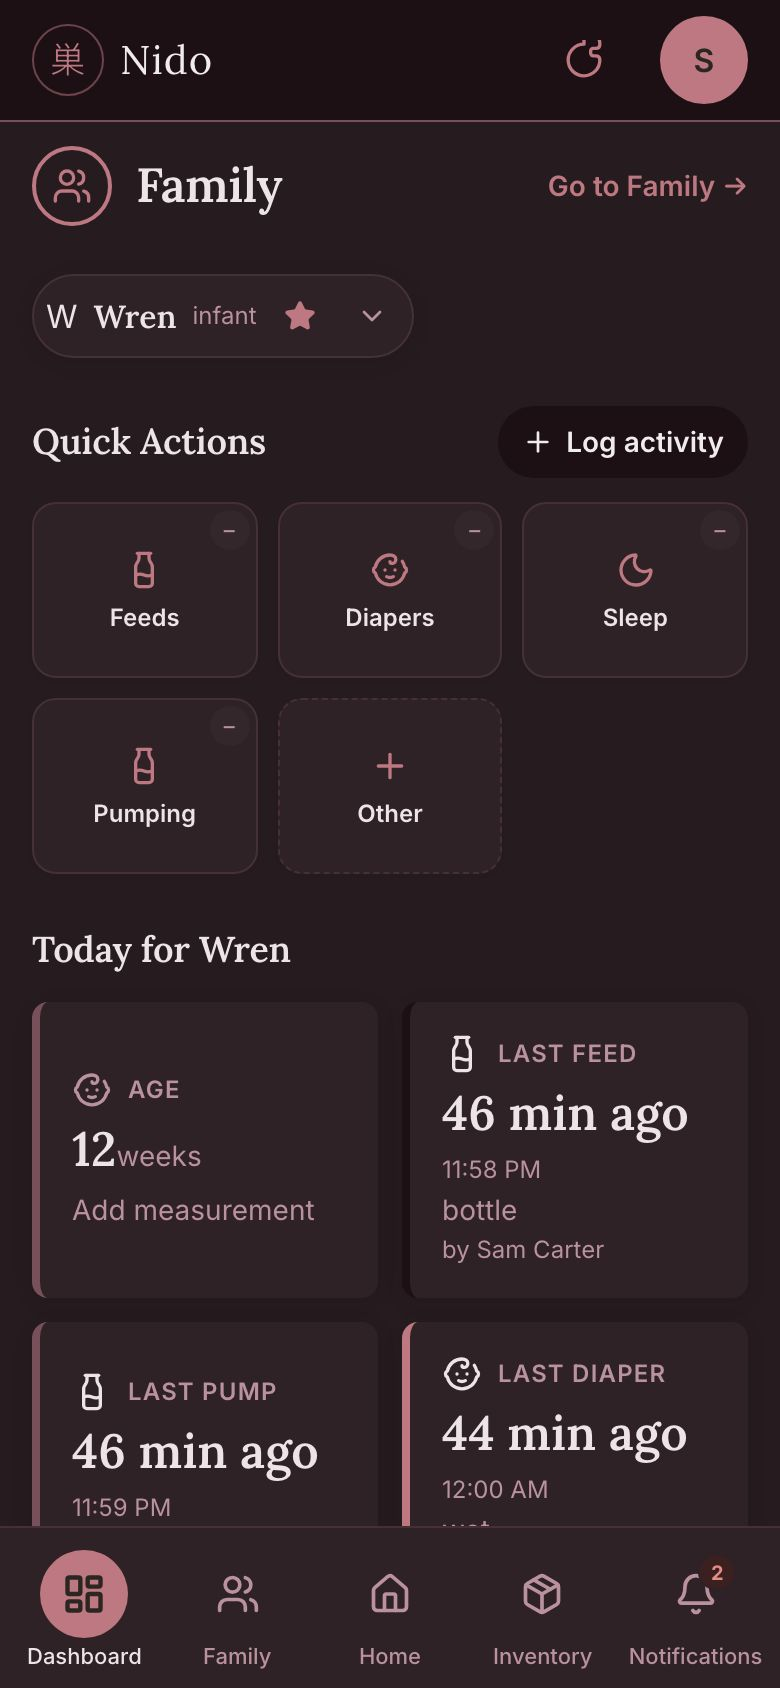
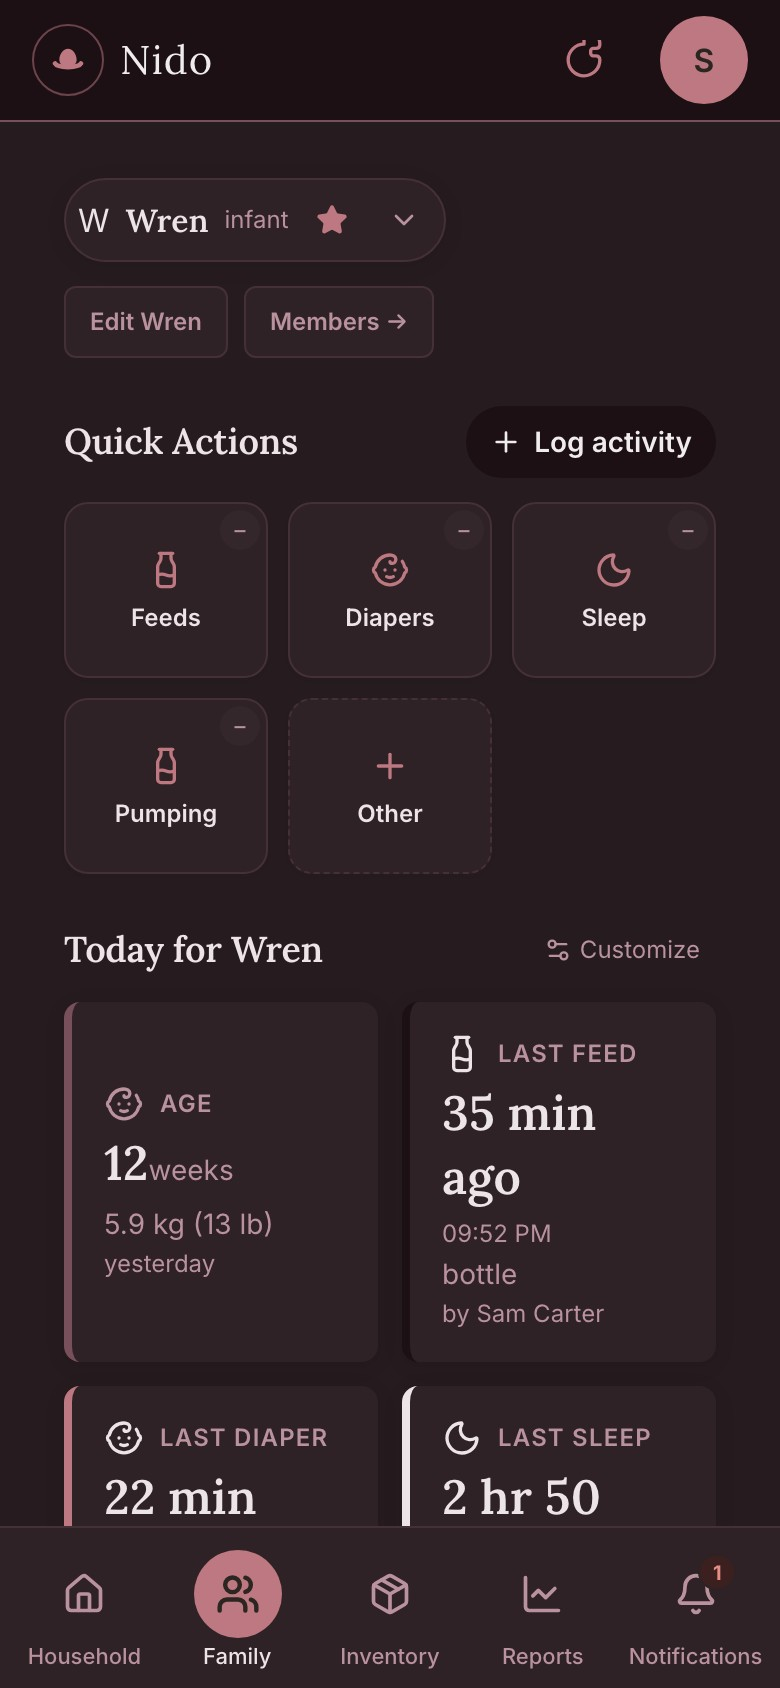
docs(site): refresh mobile screenshots and document 5-pillar nav, inventory cards, and reports

diff --git a/docs/navigation-and-page-flow-design.md b/docs/navigation-and-page-flow-design.md
@@ -19,6 +19,8 @@
 - [x] Step 5: Remove the dead bottom placeholder cards (`Property Assets` and `Manuals & Routines`) from `web/src/routes/home/+page.svelte` and keep `<HouseholdNav>`'s `h1` as `Household`.
 - [x] Step 6: Redesign `web/src/lib/components/logging/InventoryPanel.svelte` so "Cards" mode renders real scannable Nido cards (`grid-cols-1 md:grid-cols-2 gap-3`) with prominent tabular quantities, a proportional 30-day cover bar + badge, a grouped `[ −1 | +1 | ⋯ ]` stepper bar, and an **inline** `manage-panel` drawer inside the clicked card (instead of detached at the bottom of the page), while collapsing `Diaper sizes` and `Categories` setup blocks behind compact toolbar buttons.
 - [x] Step 7: Update the Playwright E2E tests (`web/tests/e2e/smoke.spec.ts`, `web/tests/e2e/assets.spec.ts`, `web/tests/e2e/care.spec.ts`) to match the retired `/dashboard` redirect (`**/family`), the lean `/family` layout (`MemberSwitcher` + `Edit`), and the `Household` heading on `/home` & `/assets`.
+- [x] Step 8: Update the website documentation (`site/src/content/docs/guides/user-guide.md`, `site/src/content/docs/features.md`, and `site/src/content/docs/index.mdx`) to document the 5 unified pillars (`Household`, `Family`, `Inventory`, `Reports`, `Notifications`), configurable start page (`nido.startPage`), interactive Inventory stat filter cards & scannable item cards with inline recount/sparkline drawers, multi-formula + category line overlays in `/reports`, and the child Age tile showing the latest growth measurement.
+- [x] Step 9: Regenerate all mobile screenshots in `site/src/assets/screenshots/` (`390×844`, `deviceScaleFactor: 2`, `blush-light` and `blush-dark` themes) using Playwright against realistic seeded data (positive weight gain, visible scannable inventory cards, `<NidoMark />` egg-in-nest header, new 5-pillar `BottomNav`, and rules visible on `/notifications`), plus add `phone-reports-{light,dark}.jpg` and `phone-household-{light,dark}.jpg` slides to the landing page carousel in `site/src/content/docs/index.mdx` and verify `npm run build --workspace=site` (or `cd site && npm run build`).
 
 ---
 
@@ -178,3 +180,53 @@ Update the Playwright E2E tests so they test the new, clean architecture:
    - Test 4 (`family page: MemberSwitcher switches and stars a member`): Open `Switch person`, select `CHILD`, verify `Today for ${CHILD}` renders.
    - Test 5 (`family page: EditMemberModal renames a member`): Click `Edit ${CHILD}` (`getByTestId('edit-selected-member')`), rename to `CHILD_RENAMED`, verify toast and updated name in `Switch person` / `Today for ${CHILD_RENAMED}`.
    - Test 8 (`family and home render the family data without the setup empty states`): Check `/family` and `/home` (`Homes` heading, `What's due` heading) without checking for the deleted `Property Assets` placeholder card.
+
+---
+
+## 3. Website Documentation & Mobile Screenshots Specification (Steps 8 & 9)
+
+### 3.1 Audit of Outdated Website Content (`site/src/`)
+
+1. **`site/src/content/docs/guides/user-guide.md`:**
+   - **`## The five places` (lines 28–36):** Still describes the old 7-item split (`Dashboard`, `Family`, `Home`, `Inventory`, `Notifications` on mobile, with `Reports` and `Assets` desktop-only). Update to describe the unified 5 pillars shared across desktop and mobile in order: **Household** (Residences, Upkeep & Property Assets), **Family** (members, 2-tap logging, Today tiles, Trends, Stock glance, and WHO Growth curves), **Inventory** (stock cards, cover bars, interactive stat filters, and inline recounts), **Reports** (daily series, multi-formula breakdown, category overlays), and **Notifications** (firing alerts, tracking/inventory rules, and email digests). Document pinning any pillar as your default **Start page** from the account menu or **Settings → Profile**.
+   - **`## Inventory` (lines 165–218):** Document the interactive metric filter cards at the top of `/inventory` (clicking `Needs attention`, `Counts disagree`, `Expiring soon`, `No forecast yet`, or `Auto-decrementing` filters the items below in 1 tap), the scannable inventory cards with 30-day cover bars and `[ −1 | +1 | ⋯ ]` steppers, and the inline recount & 30-day usage sparkline drawer. Also mention the `📏 Diaper sizes` and `🏷 Categories` toolbar toggles.
+   - **`## Reports` (lines 219–243):** Document the **Formula** row when a family uses two or more formula cans (`All combined` plus individual toggles for each formula item on the volume axis) alongside the `By category` inventory lines.
+   - **`## Home` → `## Household` (lines 276–308):** Update section heading and navigation references to **Household**, noting the `[ Residences & Upkeep | Property Assets ]` switcher and that **What's due** rises to the top whenever maintenance schedules are due or overdue.
+   - **`## Working offline` (line 313):** Update `Dashboard or Family page` to `Family page`.
+
+2. **`site/src/content/docs/features.md`:**
+   - **`## Today` (lines 121–133):** Note that the **Age** tile for a child now displays both their age in weeks/months and their **latest growth measurement** (weight/length and how long ago it was recorded) right on the tile, plus the **Upcoming** tile for booked appointments.
+   - **`## Inventory` (lines 161–204):** Mention the interactive stat filter tiles, scannable cards with proportional 30-day cover bars, formula cans linked directly to bottle feeds, and inline 30-day usage sparklines.
+   - **`## Reports` (lines 275–280):** Replace the outdated 4-line stub (which only mentioned 24h/30d rollups on Family) with the full `/reports` feature set: 7d / 30d / 90d / Custom date windows, whole-family or per-member filtering, overlaid daily series (`Pumped`, `Formula`, `Bottled milk`, `Inventory used`), per-formula breakdown when feeding multiple formulas (`All combined` + each formula can), `By category` inventory lines, interactive day drill-down, and the `What got used` ledger table.
+   - **`## Home` → `## Household` (lines 239–274):** Align heading and navigation references with **Household** (`Residences & Upkeep` and `Property Assets`).
+
+3. **Outdated Screenshots in `site/src/assets/screenshots/` & `site/src/content/docs/index.mdx`:**
+   - Every existing screenshot (`phone-feeds-{light,dark}.jpg`, `phone-pumping-{light,dark}.jpg`, `phone-trends-{light,dark}.jpg`, `phone-growth-{light,dark}.jpg`, `phone-inventory-{light,dark}.jpg`, `phone-family-members-{light,dark}.jpg`, `phone-notifications-{light,dark}.jpg`) was captured before the new product mark and navigation landed:
+     - Header still shows the old `巣` kanji instead of `<NidoMark />` (egg in a nest).
+     - Bottom bar still shows `Dashboard | Family | Home | Inventory | Notifications` instead of `Household | Family | Inventory | Reports | Notifications`.
+     - `phone-feeds` shows the retired `/dashboard` header and `Add measurement` on the Age tile instead of the latest weight.
+     - `phone-trends` shows negative weight gain (`-36 g / day`).
+     - `phone-inventory` shows `← Back` and the expanded `DIAPER SIZES` form pushing all stock cards off-screen.
+     - `phone-family-members` shows the deleted `Family Overview` with `152.5oz` average feed size.
+     - `phone-notifications` shows `← Back` and the `Email` essay above the rules.
+   - Furthermore, the landing page carousel in `site/src/content/docs/index.mdx` has **no slide for Reports** (`/reports`) and **no slide for Household** (`/home` & `/assets`).
+
+---
+
+### 3.2 Regenerating Mobile Screenshots (`site/src/assets/screenshots/`)
+
+Write a repeatable Playwright capture script (or spec) that boots or connects to the running app, seeds a realistic household (**The Carter Family**: baby **Wren** at 12 weeks with steady positive weight gain `+28 g/day`, realistic 3–5 oz feeds across two formula cans + breast/pumped sessions, active diaper/wipes/formula inventory with healthy & low-stock items, 2 active tracking/inventory rules, and a primary residence with a car & furnace schedule), and captures `390×844` (`deviceScaleFactor: 2`, JPEG quality `88`) screenshots in both `blush-light` and `blush-dark` themes (`localStorage.setItem('nido.theme', 'blush-light' | 'blush-dark')`):
+
+| Asset Pair (`light` & `dark`) | Route & Scroll Position | What Must Be Visible in Frame (`390×844`) |
+| :--- | :--- | :--- |
+| `phone-feeds-{light,dark}.jpg` | `/family` (top of page) | `<NidoMark />` header, `<MemberSwitcher>` (`Wren · infant ★`), `Edit Wren` / `Members →`, `Quick Actions` tiles, `Today for Wren` showing `AGE 12 weeks` **with latest weight (`5.8 kg`)** and `LAST FEED 45 min ago`, and the new 5-pillar `BottomNav` (`Household`, `Family`, `Inventory`, `Reports`, `Notifications`). |
+| `phone-pumping-{light,dark}.jpg` | `/family` (with Pump logger sheet or `LAST PUMP` tile + `Quick Actions`) | Pumping logger / session view in `blush-light` & `blush-dark`. |
+| `phone-trends-{light,dark}.jpg` | `/family` (scrolled to `Trends for Wren` & `Stock`) | `Trends for Wren` showing realistic positive weight gain (`+28 g / day`) and `Stock` glance cards below it. |
+| `phone-growth-{light,dark}.jpg` | `/family` (scrolled to `Growth for Wren`) | `Growth for Wren` WHO percentile chart with upward weight curve, plus new `BottomNav`. |
+| `phone-inventory-{light,dark}.jpg` | `/inventory` (top of page, with `📏 Diaper sizes` collapsed!) | Interactive `InventoryStats` filter tiles + the new scannable **Inventory Cards** with large tabular quantities, 30-day cover progress bars (`~4d left`, `~22d left`), and `[ −1 | +1 | ⋯ ]` steppers clearly visible above the fold. |
+| `phone-reports-{light,dark}.jpg` *(New)* | `/reports` | Range selector (`30d`), 4 KPI summary cards (`Pumped`, `Formula`, `Bottled milk`, `Inventory used`), multi-formula + `By category` toggles, and `<DailySeriesChart />`. |
+| `phone-household-{light,dark}.jpg` *(New)* | `/home` | `Household` header with `[ Residences & Upkeep | Property Assets ]` switcher, `What's due` maintenance items, and `Homes` residence card with photo & asset count. |
+| `phone-family-members-{light,dark}.jpg` | `/family` (with `<MemberSwitcher>` dropdown open or `/settings` Members view) | Multiple family members (`Wren · infant`, `Sam Carter · adult`, `Milo · pet`) with `★` favorite indicators and member management. |
+| `phone-notifications-{light,dark}.jpg` | `/notifications` | `Needs attention now` firing box followed immediately by `Tracking rules` and `Inventory rules` (with the `Email` section moved to the bottom). |
+
+Update `site/src/content/docs/index.mdx` to include the new **Reports** (`#slide-reports`) and **Household** (`#slide-household`) slides in the carousel and dot nav, then run `npm run build` in `site/` to verify all Astro image imports and links compile cleanly.

diff --git a/site/src/content/docs/guides/user-guide.md b/site/src/content/docs/guides/user-guide.md
@@ -27,12 +27,17 @@ is in, or set `SIGNUP_ENABLED=false`, which is authoritative.
 
 ## The five places
 
-The app has five destinations in the bottom bar on a phone: **Dashboard**,
-**Family**, **Home**, **Inventory**, and **Notifications**. Two more live in
-the header: **Reports** (a look-back) and **Assets** (set-up). Settings is in
-the account menu in the header.
+The app has five destinations, shared in the same order between the header on
+desktop and the bottom bar on a phone: **Household**, **Family**,
+**Inventory**, **Reports**, and **Notifications**. Settings lives in the
+account menu in the header.
 
-Everything on this page is reached from those, plus the log forms.
+By default, opening Nido or tapping the egg-in-nest mark in the header takes
+you to **Family**. You can pin any pillar (**Family**, **Household**,
+**Inventory**, or **Reports**) as your default **Start page** from the header
+account menu (**Pin this page as start**) or under **Settings → Profile**.
+
+Everything on this page is reached from those five places, plus the log forms.
 
 ## Logging the everyday things
 
@@ -189,6 +194,23 @@ carries a **variant** (a diaper size, a scent) and an **expiry date**.
 Every item then shows **days of cover** and when the next unit is due,
 worked out from your recent rate of use.
 
+### Scannable cards and interactive metric filters
+
+At the top of **Inventory**, six summary tiles report the shape of your stock:
+**Items tracked**, **Needs attention**, **Expiring soon**, **Counts disagree**,
+**No forecast yet**, and **Auto-decrementing**. Tap any tile to filter the
+inventory list below to the exact items contributing to that figure — for
+example, tapping **Counts disagree** isolates the items where automatic
+tracking and your last physical count have drifted apart.
+
+In **Cards** view, each item shows its on-hand quantity, a 30-day cover bar,
+a days-left badge, and a `[ −1 | +1 | ⋯ ]` stepper. Tapping `⋯` opens an
+inline drawer right inside that card to record a physical recount, inspect a
+30-day daily usage sparkline, reset history, or stop tracking. Setup drawers
+for **Diaper sizes** and **Categories** stay tucked behind toolbar buttons
+(`📏 Diaper sizes` and `🏷 Categories`) so your stock list is always at the
+top of the page.
+
 ### Rules
 
 A rule compares a **signal** against a limit, and the notification appears
@@ -218,23 +240,29 @@ advance and discovering at 2am that there are none left.
 
 ## Reports
 
-**Reports** turns the quick numbers on the Family Overview into series over
-time, so you can see a trend rather than an average. Pick a window — 7, 30, or
-90 days, or **Custom** for an explicit start and end date (up to a year) — and
-toggle which lines to draw: **Pumped** (milk expressed),
+**Reports** turns your logged feedings, pumping sessions, and stock ledger into
+daily series over time, so you can see a trend rather than an average. Pick a
+window — 7, 30, or 90 days, or **Custom** for an explicit start and end date
+(up to a year) — and toggle which lines to draw: **Pumped** (milk expressed),
 **Formula**, **Bottled milk**, and **Inventory used**. Volume is on the left
 axis in ounces; inventory units are on the right, dashed, so overlaying them
 stays honest about the two different scales.
 
+When a family feeds from two or more formula cans in **Inventory**, a
+**Formula** row appears with **All combined** alongside individual toggles for
+each formula item, so you can compare specific formulas or view the combined
+total on the volume axis.
+
 Below those, a **By category** row adds one line per inventory category —
-diapers, formula, and so on — on the inventory axis, each labeled with its
-unit. They start off; turn on only the ones you want to compare, so a household
-with a long inventory list does not open onto a thicket of lines.
+diapers, formula, wipes, and so on — on the inventory axis, each labeled with
+its unit. They start off; turn on only the ones you want to compare, so a
+household with a long inventory list does not open onto a thicket of lines.
 
 Days follow the family's timezone, not the server's, so two caregivers see the
 same buckets. **Tap a day** on the chart to open it: that day's totals and the
 items that were used to make them up. Below the chart, **What got used** lists
-every item with its total and per-day rate over the window.
+every item with its total and per-day rate over the window, followed by weekly
+category rates and WHO growth curves for the selected child.
 
 By default the report is the whole family's. Choosing a person narrows the
 feeding lines to them; inventory stays the household's ledger, since a box of
@@ -243,8 +271,8 @@ apart from **use**, so a stock count never reads as consumption.
 
 ## Notifications
 
-**Notifications** is one page in four parts: what needs attention now,
-tracking rules, inventory rules, and email.
+**Notifications** is one page in four parts, ordered from most urgent to setup:
+what needs attention now, tracking rules, inventory rules, and email digests.
 
 ### Needs attention now
 
@@ -273,11 +301,12 @@ controls them. If they are off, this section says so rather than leaving you
 guessing. Self-hosters: see
 [Configuration →](../reference/configuration/).
 
-## Home
+## Household
 
-**Home** is where the house itself is tracked. It starts with the
-**residences**: add a home with its address and timezone, mark who lives
-there, and give it a picture.
+**Household** is where the house itself is tracked, with a top switcher between
+**Residences & Upkeep** (`/home`) and **Property Assets** (`/assets`). It
+starts with the **residences**: add a home with its address and timezone, mark
+who lives there, and give it a picture.
 
 Then the durable things get their own pages:
 
@@ -298,9 +327,9 @@ Then the durable things get their own pages:
   filter and the count — and attach the receipt, encrypted like every other
   file in Nido.
 
-The **What's due** card on the Home page shows every asset's obligations
-across the house, overdue first, and feeds the same
-[email digest](#email) as everything else.
+The **What's due** card on the Household page rises to the top whenever an
+asset's maintenance schedule is due or overdue across the house, and feeds the
+same [email digest](#email) as everything else.
 
 A seasonal schedule shows as a **checklist** — "Winter 2026" — and a card
 checks off when an entry is logged inside the window. Nothing is checked that
@@ -310,8 +339,8 @@ is not backed by a record; skipping a season takes a reason.
 
 Feed and sleep records — including pump sessions — are queued on the device
 if the server is unreachable, up to the most recent 200, and sent when
-connectivity returns. The queue drains when you next open the **Dashboard**
-or **Family** page, and tells you how many records synced.
+connectivity returns. The queue drains when you next open the **Family** page,
+and tells you how many records synced.
 
 :::note[Not every category queues]
 Only feeds, pumps, and sleep are held offline. A diaper logged with no

diff --git a/site/src/content/docs/features.md b/site/src/content/docs/features.md
@@ -120,16 +120,21 @@ under **Settings → Household**.
 
 ## Today
 
-The Today view answers four questions without navigation:
+The Today view answers what is happening right now without navigation:
 
-- **Age** — in weeks, from birth date
+- **Age & latest growth** — age in weeks or months from birth date, with the
+  most recent weight or length measurement and how long ago it was recorded
+  right underneath
 - **Last feed** — how long ago, the clock time, the type, and who logged it
 - **Last diaper** — same shape
 - **Last sleep** — how long ago it started, and how long it lasted
+- **Upcoming** — the next future-dated appointment, medical visit, or routine
 
 "How long ago" is the headline because that is the question a "last seen" tile
 is actually asked. The exact time sits underneath for when it matters. Every
-tile is also a shortcut into the matching log form.
+tile is also a shortcut into the matching log form (or the upcoming
+appointments list), and **Customize** lets you choose which tiles appear and in
+what order for each member.
 
 ## Quick Actions
 
@@ -166,12 +171,19 @@ shopping list, one that forecasts.
 - Items carry a **category**, **quantity**, **unit**, an optional **variant**
   (a diaper size, a scent) and an optional **expiry date**. Categories are
   yours to define; `diapers` ships as the default.
-- **Diaper stock counts itself.** A logged diaper change is one unit used, so
-  the count follows the log rather than being a second thing to maintain.
+- **Diaper and formula stock count themselves.** A logged diaper change is one
+  unit used, and a logged formula bottle subtracts the ounces it held from the
+  chosen formula can in inventory.
 - Items can also run on a **cadence** — eight a day — and deplete themselves
   between logs, so wipes and nappies fall without anyone recording them.
-- Every item is **forecast**. Nido works out the recent rate of use and
-  reports days of cover and when the next unit falls due.
+- **Interactive metric filters.** Six summary tiles at the top (**Items
+  tracked**, **Needs attention**, **Expiring soon**, **Counts disagree**, **No
+  forecast yet**, and **Auto-decrementing**) act as 1-tap filters to isolate
+  the exact items behind each number.
+- **Scannable cards and inline recounts.** Each item card displays its tabular
+  quantity, a proportional 30-day cover bar, a days-left badge, and a
+  `[ −1 | +1 | ⋯ ]` stepper. Tapping `⋯` opens an inline drawer inside the
+  card with a recount form and a 30-day daily usage sparkline.
 
 ### Rules that reason about time, not just counts
 
@@ -274,9 +286,24 @@ family address book), and per-category schedule templates — see
 
 ## Reports
 
-The Family page carries feed rollups for the last 24 hours and 30 days —
-count, average size, and average length. Enough to answer "is this normal for
-them this week" without building a report.
+**Reports** turns daily feeding, pumping, and inventory ledger entries into
+overlaid time series — accessible as a primary destination in both the desktop
+header and the mobile bottom bar:
+
+- **Flexible windows** — 7, 30, or 90 days, or a **Custom** date range up to a
+  full year, bucketed on the family's timezone.
+- **Volume and stock on one chart** — toggle **Pumped**, **Formula**,
+  **Bottled milk** (left axis, in ounces) and **Inventory used** (right axis,
+  dashed units).
+- **Per-formula breakdown** — when a household feeds from two or more formula
+  items in inventory, toggle **All combined** or individual formula cans to
+  compare them side by side.
+- **By-category inventory lines** — overlay individual inventory categories
+  (diapers, wipes, formula, filters) on the stock axis, plus **tap any day** on
+  the chart to inspect that day's exact breakdown and any manual recount
+  corrections.
+- **Weekly rates and WHO growth curves** — per-member 7-day category rates and
+  WHO weight/length percentile curves sit alongside the daily series.
 
 ## Multi-caregiver, one record
 
